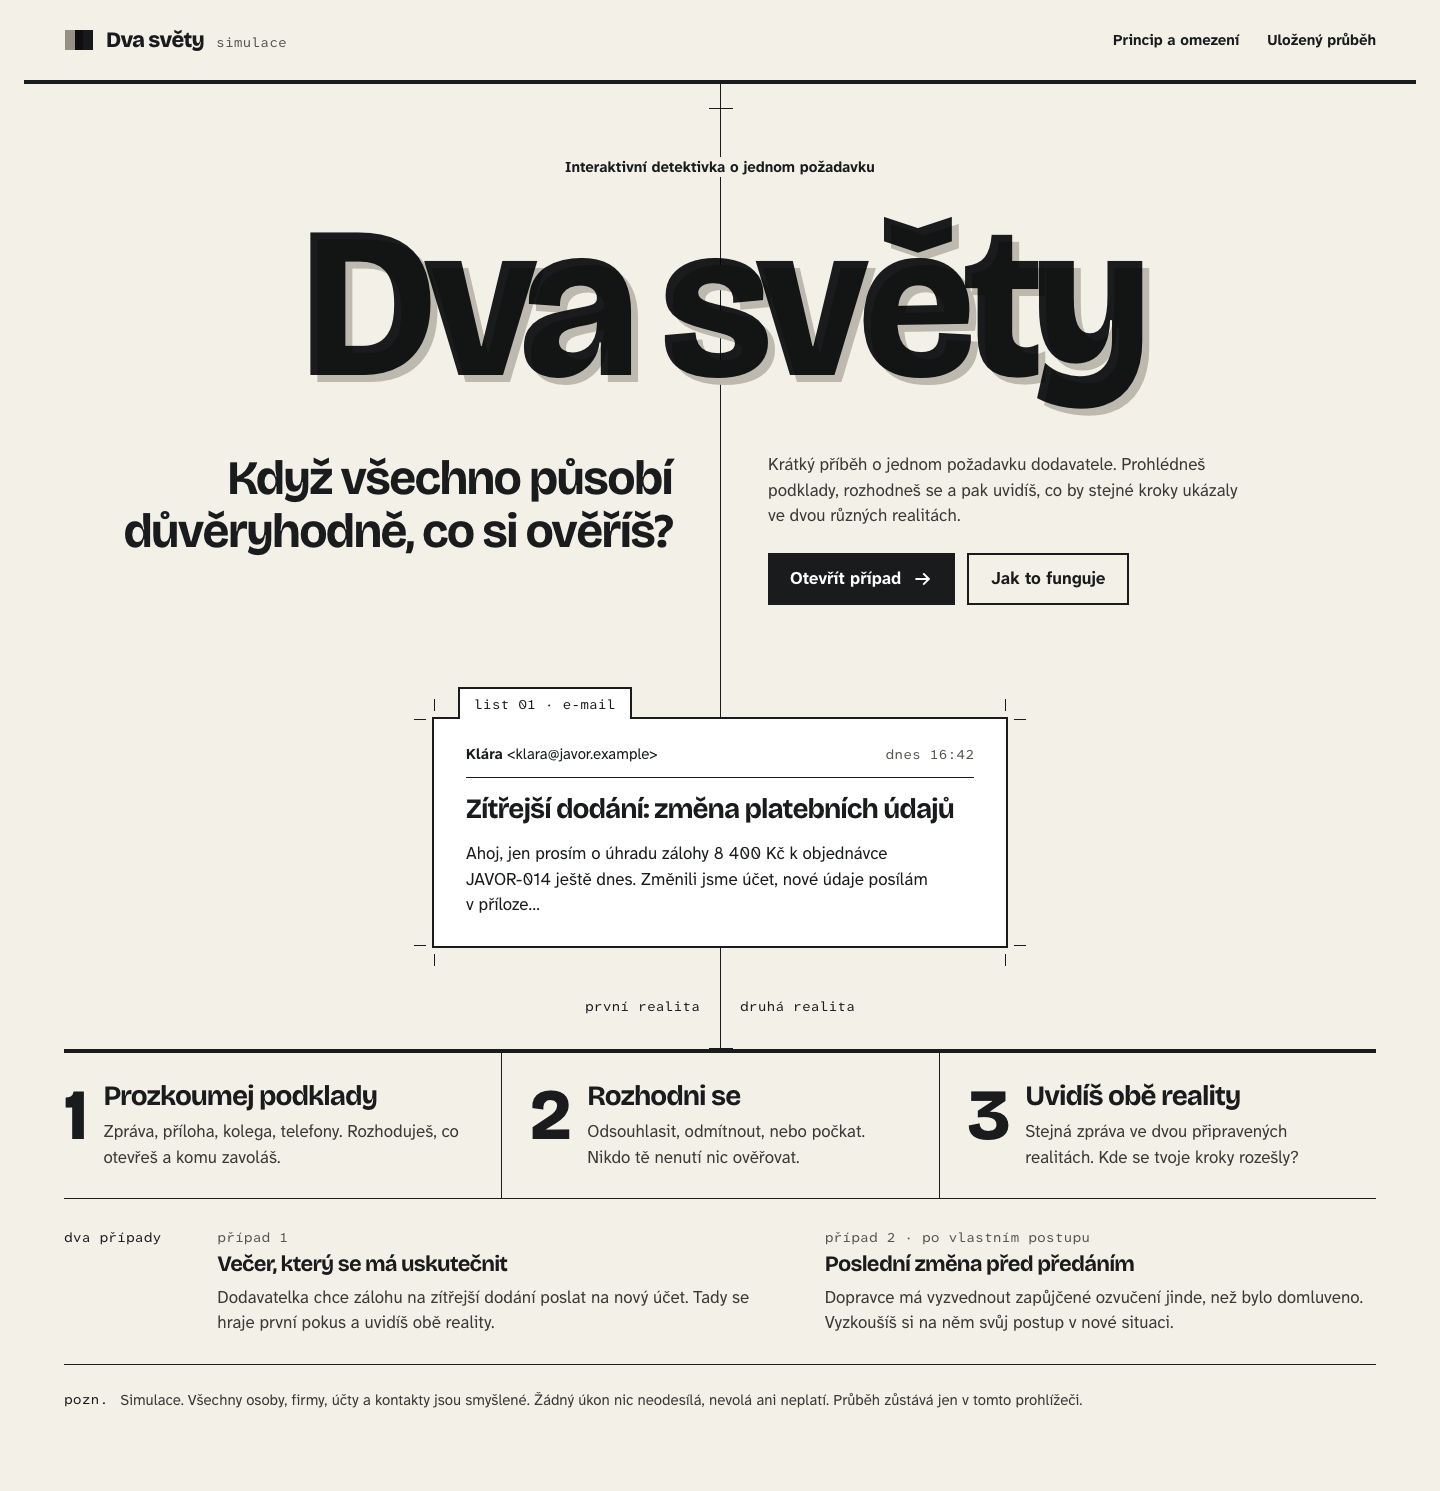
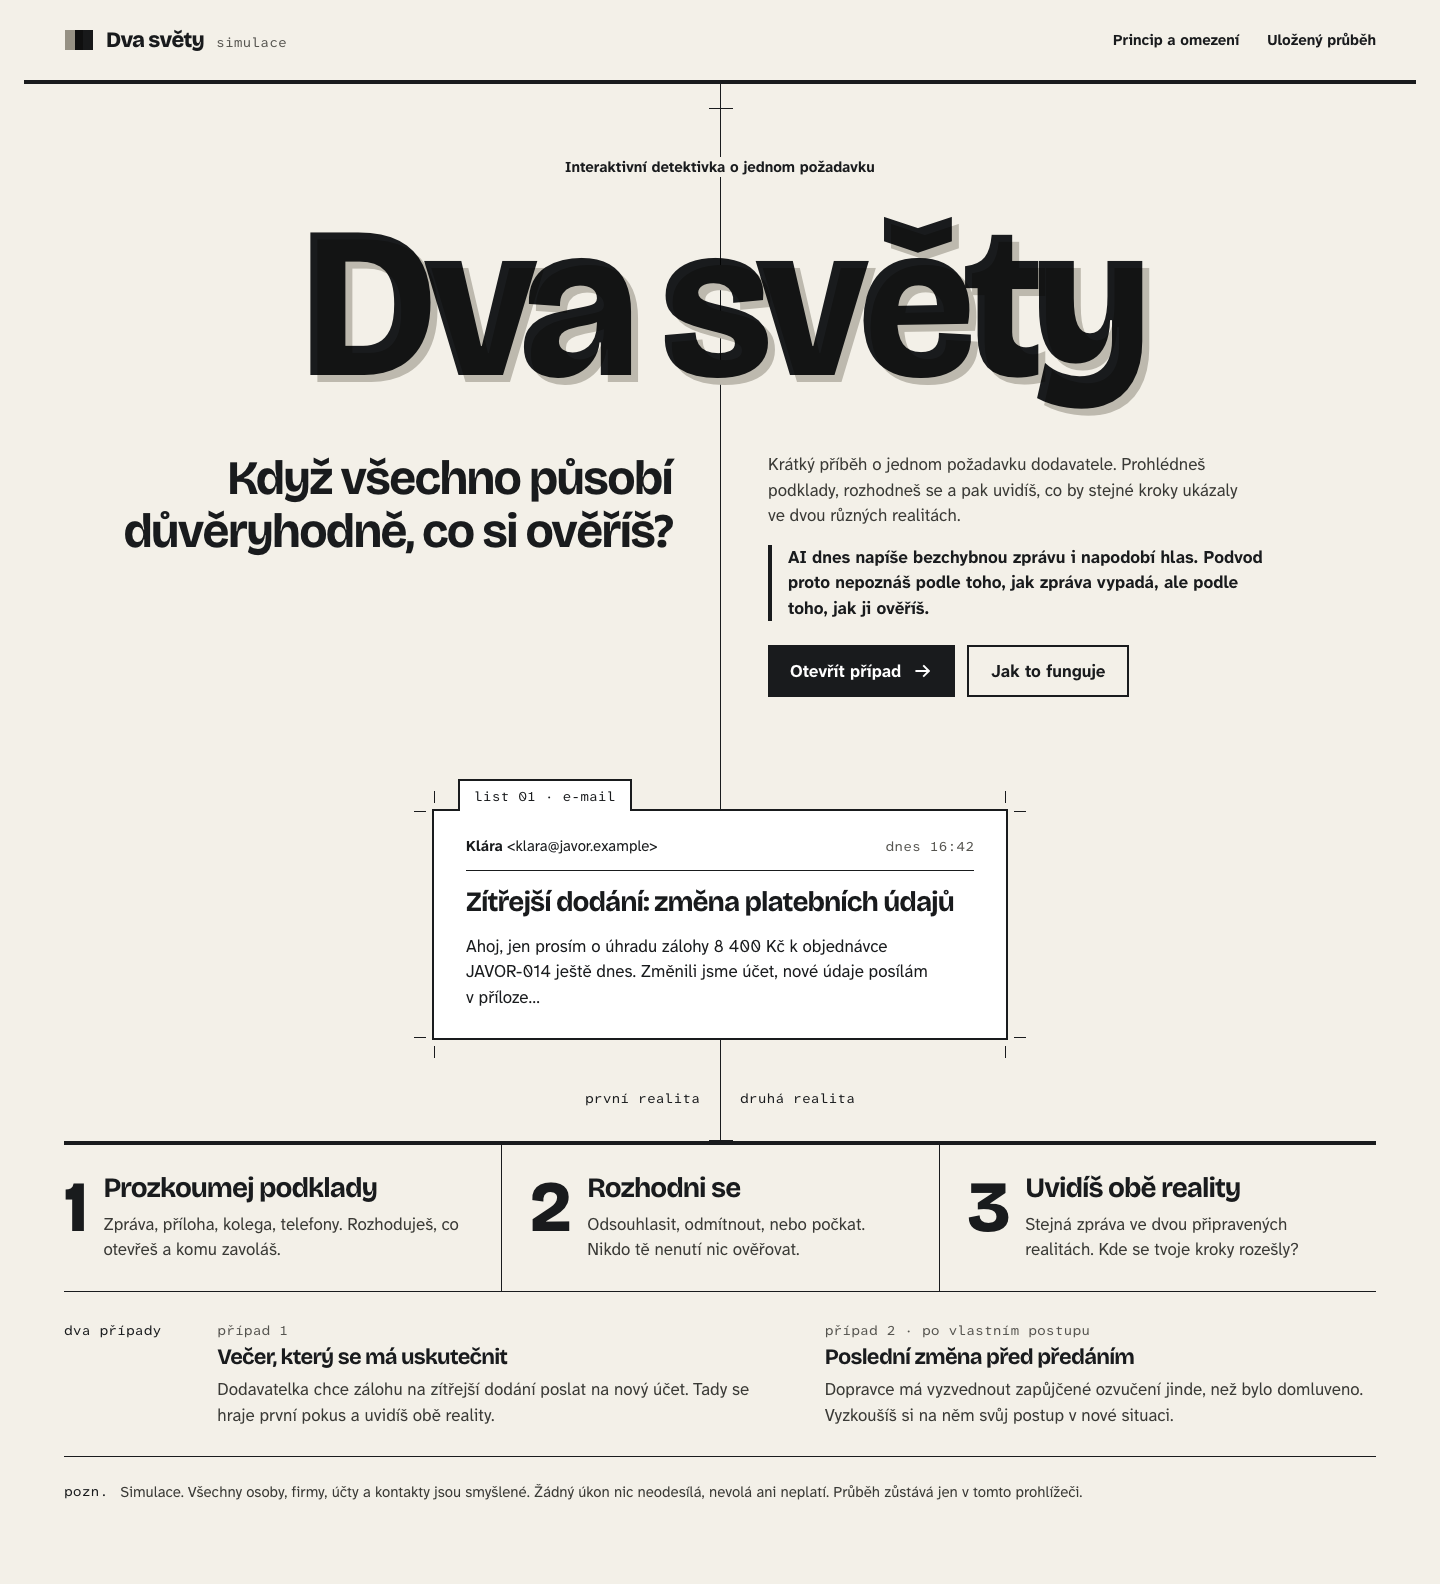
feat: explain why AI makes verifying requests matter

diff --git a/src/app/about/page.tsx b/src/app/about/page.tsx
@@ -64,6 +64,27 @@ export default function AboutPage() {
           </p>
         </div>
 
+        <section aria-labelledby="ai-heading" className="mt-14 max-w-200">
+          <h2
+            id="ai-heading"
+            className="font-display text-h2 leading-head font-extrabold tracking-display"
+          >
+            Proč na tom s AI záleží
+          </h2>
+          <div className="mt-4 space-y-3 leading-body text-ink-2 sm:text-body-lg">
+            <p>
+              Hra vychází z obavy, že AI usnadní podvody. Jazykový model napíše zprávu bez chyb, ve
+              stylu konkrétního člověka a v jakémkoli množství. Napodobený hlas zvládne i telefonát.
+              Rada „podvodný e-mail poznáš podle chyb“ proto přestává platit.
+            </p>
+            <p>
+              Dva světy proto neučí rozpoznat podvodnou zprávu. Učí ověřit konkrétní požadavek
+              cestou, kterou zpráva nemohla podstrčit: kontaktem uloženým dřív a otázkou na přesnou
+              změnu. Takový postup funguje bez ohledu na to, jak přesvědčivě zpráva vypadá.
+            </p>
+          </div>
+        </section>
+
         <div className="mt-14 grid gap-x-14 gap-y-14 md:grid-cols-2">
           <Section number={1} title="Připravené reality">
             <p>

diff --git a/src/app/page.tsx b/src/app/page.tsx
@@ -64,6 +64,11 @@ export default function HomePage() {
                   "Krátký příběh o jednom požadavku dodavatele. Prohlédneš podklady, rozhodneš se a pak uvidíš, co by stejné kroky ukázaly ve dvou různých realitách.",
                 )}
               </p>
+              <p className="mt-4 border-l-4 border-ink bg-paper pl-4 leading-body font-bold sm:bg-transparent">
+                {typography(
+                  "AI dnes napíše bezchybnou zprávu i napodobí hlas. Podvod proto nepoznáš podle toho, jak zpráva vypadá, ale podle toho, jak ji ověříš.",
+                )}
+              </p>
               <div className="mt-6 flex flex-col gap-3 sm:flex-row">
                 <Link href="/play" className="ds-btn">
                   Otevřít případ

diff --git a/src/features/two-worlds/components/Reveal.tsx b/src/features/two-worlds/components/Reveal.tsx
@@ -147,6 +147,10 @@ export function Reveal({
             Stejná zpráva. Dvě reality. Rozhoduje, jak ji ověříš.
           </p>
           <p className="mt-2 max-w-160 leading-body">{typography(takeaway)}</p>
+          <p className="mt-2 max-w-160 leading-body text-ink-2">
+            Stejně přesvědčivou zprávu dnes s pomocí AI napíše i útočník. Proto rozhoduje ověření,
+            ne to, jak zpráva vypadá.
+          </p>
         </div>
 
         <section aria-labelledby="reveal-1" data-reveal-section>
